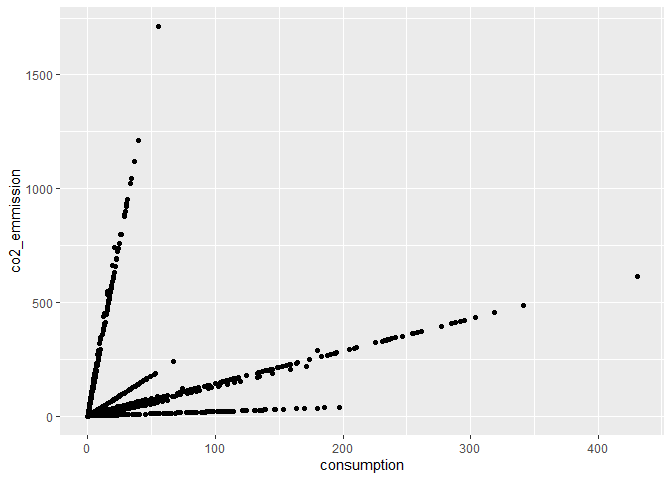
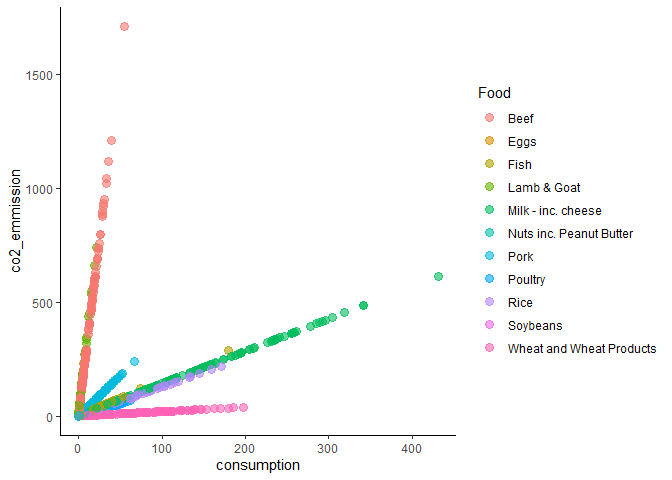
More fancy figures

diff --git a/20200218/20200218_first_tuesday.md b/20200218/20200218_first_tuesday.md
@@ -19,11 +19,18 @@ library(tidyverse)
 # Check how the data looks
 
 food_consumption %>%
-  ggplot(., aes(x = consumption, y = co2_emmission)) +
-  geom_point()
+  ggplot(., aes(x = consumption, y = co2_emmission, color = food_category)) +
+  geom_point(size = 3, alpha = 0.6) +
+  theme_classic() +
+  guides(color = guide_legend(title = "Food"))
 ```
 
 ![](20200218_first_tuesday_files/figure-gfm/unnamed-chunk-3-1.png)<!-- -->
+
+``` r
+  #scale_color_viridis_d() +
+  #guide_legend(color = "Food") +
+```
 
 How many countries do we have? The data shows we have 130 countries and
 11 food categories.
